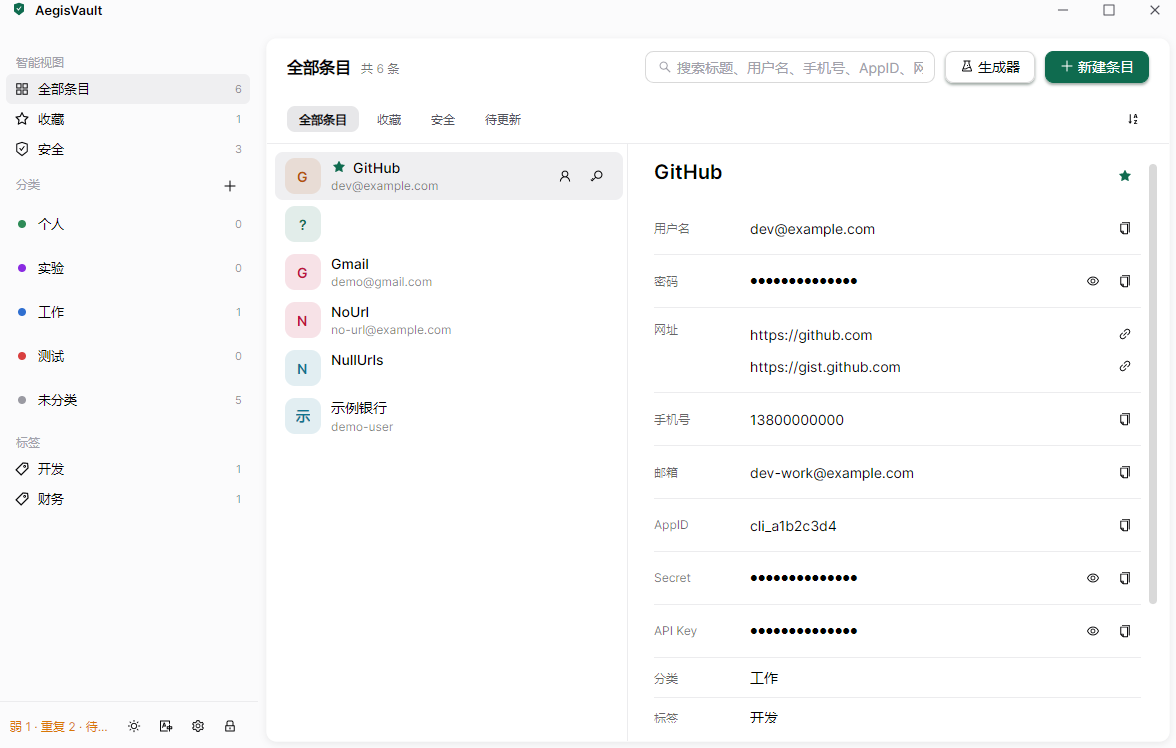
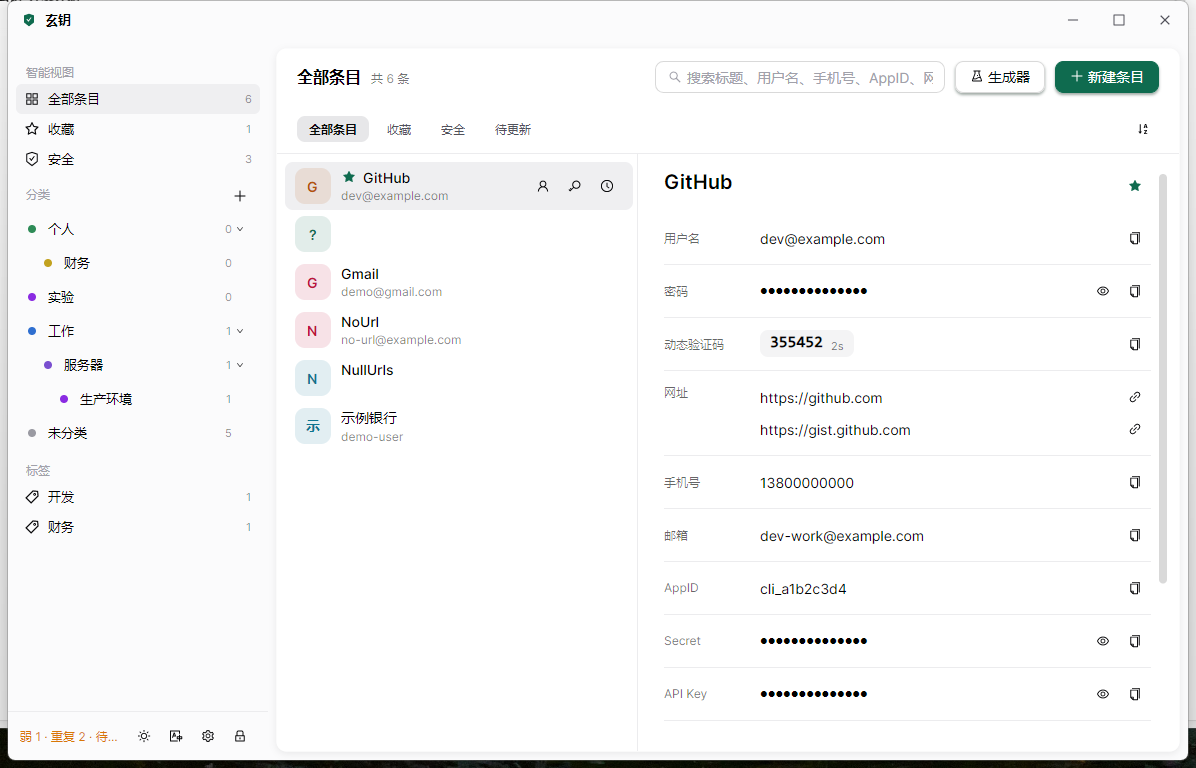
feat(app): show 玄钥 as the window title in Chinese
- new i18n key App_Title (zh 玄钥 / en AegisVault); the main window, unlock
  window and splash use it for the OS title, the custom title bar and the
  brand text, so the taskbar/Alt+Tab entry follows the UI language too
- tray tooltip and the Windows secure-input caption use the same key
- WindowActivation: match any of several titles (TryActivateByAnyTitle /
  IsAnyTitleMatch); Program.WindowTitles accepts both names so a second
  launch still activates the running instance in either language
- refresh the Chinese README screenshots (main window + first run page)
- tests: title assertions use Loc.T("App_Title"), add IsAnyTitleMatch cases
  -> 473/473 (205 Core + 23 Platform + 245 App)

diff --git a/src/AegisVault.Platform/WindowActivation.cs b/src/AegisVault.Platform/WindowActivation.cs
@@ -26,16 +26,27 @@ public static class WindowActivation
     public static bool TryActivateByTitle(string title)
         => TryActivateByTitle(title, Environment.ProcessPath);
 
+    /// <summary>
+    /// Same as <see cref="TryActivateByTitle(string)"/>, but accepts any of
+    /// <paramref name="titles"/>. The title bar follows the UI language, so a
+    /// second launch has to match both the localized and the neutral name.
+    /// </summary>
+    public static bool TryActivateByAnyTitle(IReadOnlyList<string> titles)
+        => TryActivateByAnyTitle(titles, Environment.ProcessPath);
+
     internal static bool TryActivateByTitle(string title, string? expectedExecutablePath)
+        => TryActivateByAnyTitle([title], expectedExecutablePath);
+
+    internal static bool TryActivateByAnyTitle(IReadOnlyList<string> titles, string? expectedExecutablePath)
     {
-        if (!OperatingSystem.IsWindows() || string.IsNullOrWhiteSpace(title))
+        if (!OperatingSystem.IsWindows() || titles is null || titles.Count == 0)
         {
             return false;
         }
 
         try
         {
-            var handle = FindWindowByTitle(title, expectedExecutablePath);
+            var handle = FindWindowByTitle(titles, expectedExecutablePath);
             if (handle == IntPtr.Zero)
             {
                 return false;
@@ -61,6 +72,20 @@ public static class WindowActivation
     internal static bool IsTitleMatch(string? windowTitle, string expectedTitle)
         => !string.IsNullOrWhiteSpace(windowTitle) &&
            string.Equals(windowTitle.Trim(), expectedTitle.Trim(), StringComparison.Ordinal);
+
+    /// <summary>Whether a window title matches any of the accepted titles.</summary>
+    internal static bool IsAnyTitleMatch(string? windowTitle, IReadOnlyList<string> expectedTitles)
+    {
+        foreach (var title in expectedTitles)
+        {
+            if (!string.IsNullOrWhiteSpace(title) && IsTitleMatch(windowTitle, title))
+            {
+                return true;
+            }
+        }
+
+        return false;
+    }
 
     /// <summary>
     /// Whether two executable paths point at the same file (Windows paths are
@@ -106,10 +131,9 @@ public static class WindowActivation
         }
     }
 
-    private static IntPtr FindWindowByTitle(string title, string? expectedExecutablePath)
+    private static IntPtr FindWindowByTitle(IReadOnlyList<string> titles, string? expectedExecutablePath)
     {
         var found = IntPtr.Zero;
-        var expected = title.Trim();
 
         _ = EnumWindows((handle, _) =>
         {
@@ -120,7 +144,7 @@ public static class WindowActivation
 
             var buffer = new StringBuilder(256);
             _ = GetWindowTextW(handle, buffer, buffer.Capacity);
-            if (!IsTitleMatch(buffer.ToString(), expected))
+            if (!IsAnyTitleMatch(buffer.ToString(), titles))
             {
                 return true;
             }

diff --git a/src/AegisVault.App/Program.cs b/src/AegisVault.App/Program.cs
@@ -6,8 +6,12 @@ namespace AegisVault.App;
 
 internal static class Program
 {
-    /// <summary>Window title of the running instance a second launch activates.</summary>
-    internal const string WindowTitle = "AegisVault";
+    /// <summary>
+    /// Window titles a second launch activates. The title bar follows the UI
+    /// language, so both the neutral product name and the localized one are
+    /// accepted (see <c>App_Title</c>).
+    /// </summary>
+    internal static readonly string[] WindowTitles = ["AegisVault", Localization.Loc.Get(Localization.Loc.Chinese, "App_Title")];
 
     /// <summary>
     /// Held for the whole process lifetime. The restart flow releases it early
@@ -26,7 +30,7 @@ internal static class Program
             // Another instance owns the vault: bring its window forward and exit.
             // The window may not exist yet when both launches race; the second
             // process still exits so no duplicate session ever starts.
-            WindowActivation.TryActivateByTitle(WindowTitle);
+            WindowActivation.TryActivateByAnyTitle(WindowTitles);
             return;
         }
 

diff --git a/tests/AegisVault.Platform.Tests/SingleInstanceGuardTests.cs b/tests/AegisVault.Platform.Tests/SingleInstanceGuardTests.cs
@@ -41,6 +41,19 @@ public sealed class SingleInstanceGuardTests
     }
 
     [Fact]
+    public void AnyTitleMatchAcceptsTheLocalizedProductName()
+    {
+        // The window title follows the UI language ("玄钥" in Chinese).
+        var titles = new[] { "AegisVault", "\u7384\u94a5" };
+
+        Assert.True(WindowActivation.IsAnyTitleMatch("AegisVault", titles));
+        Assert.True(WindowActivation.IsAnyTitleMatch(" \u7384\u94a5 ", titles));
+        Assert.False(WindowActivation.IsAnyTitleMatch("Some Other App", titles));
+        Assert.False(WindowActivation.IsAnyTitleMatch(null, titles));
+        Assert.False(WindowActivation.IsAnyTitleMatch("AegisVault", []));
+    }
+
+    [Fact]
     public void ActivatingAnUnknownTitleFails()
     {
         var activated = WindowActivation.TryActivateByTitle("AegisVault-No-Such-Window-Title");

diff --git a/src/AegisVault.App/Views/UnlockWindow.axaml.cs b/src/AegisVault.App/Views/UnlockWindow.axaml.cs
@@ -91,7 +91,7 @@ public partial class UnlockWindow : Window
             }
 
             var parentHandle = TryGetPlatformHandle()?.Handle ?? IntPtr.Zero;
-            var password = WindowsSecureInput.PromptForPassword("AegisVault", Loc.T("Unlock_SecureInputTitle"), parentHandle);
+            var password = WindowsSecureInput.PromptForPassword(Loc.T("App_Title"), Loc.T("Unlock_SecureInputTitle"), parentHandle);
             if (!string.IsNullOrEmpty(password))
             {
                 viewModel.MasterPassword = password;

diff --git a/tests/AegisVault.App.Tests/SplashWindowTests.cs b/tests/AegisVault.App.Tests/SplashWindowTests.cs
@@ -24,7 +24,7 @@ public sealed class SplashWindowTests
             var subtitle = window.FindControl<TextBlock>("SubtitleText");
             Assert.NotNull(title);
             Assert.NotNull(subtitle);
-            Assert.Equal("AegisVault", title!.Text);
+            Assert.Equal(Localization.Loc.T("App_Title"), title!.Text);
             Assert.Equal(Localization.Loc.T("Unlock_Subtitle"), subtitle!.Text);
         }
         finally

diff --git a/src/AegisVault.App/App.axaml.cs b/src/AegisVault.App/App.axaml.cs
@@ -224,7 +224,7 @@ public partial class App : Application
             var trayIcon = new TrayIcon
             {
                 Icon = new WindowIcon(AssetLoader.Open(new Uri("avares://AegisVault.App/Assets/tray.png"))),
-                ToolTipText = "AegisVault",
+                ToolTipText = Loc.T("App_Title"),
             };
             trayIcon.Clicked += OnTrayClicked;
 

diff --git a/tests/AegisVault.App.Tests/MainViewModelTests.cs b/tests/AegisVault.App.Tests/MainViewModelTests.cs
@@ -422,7 +422,7 @@ public sealed class MainViewModelTests : IDisposable
         using var viewModel = new MainViewModel(vault);
         var window = new MainWindow { DataContext = viewModel };
 
-        Assert.Equal("AegisVault", window.Title);
+        Assert.Equal(Loc.T("App_Title"), window.Title);
     });
 
     [Fact]

diff --git a/src/AegisVault.App/Localization/EnStrings.cs b/src/AegisVault.App/Localization/EnStrings.cs
@@ -5,6 +5,9 @@ internal static class EnStrings
 {
     internal static readonly Dictionary<string, string> Table = new(StringComparer.Ordinal)
     {
+        // App
+        ["App_Title"] = "AegisVault",
+
         // Common
         ["Common_Browse"] = "Browse…",
         ["Common_Cancel"] = "Cancel",

diff --git a/src/AegisVault.App/Localization/ZhStrings.cs b/src/AegisVault.App/Localization/ZhStrings.cs
@@ -5,6 +5,9 @@ internal static class ZhStrings
 {
     internal static readonly Dictionary<string, string> Table = new(StringComparer.Ordinal)
     {
+        // App
+        ["App_Title"] = "玄钥",
+
         // Common
         ["Common_Browse"] = "浏览…",
         ["Common_Cancel"] = "取消",
